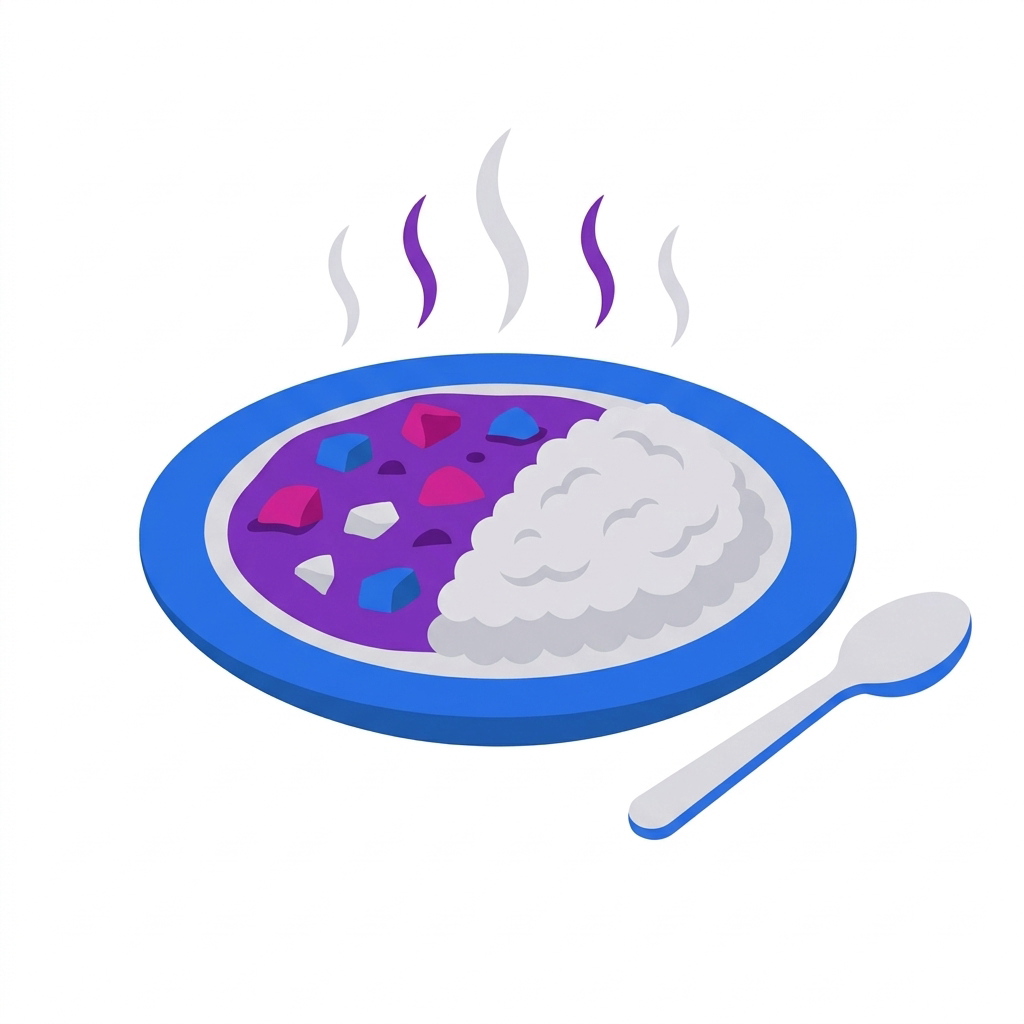
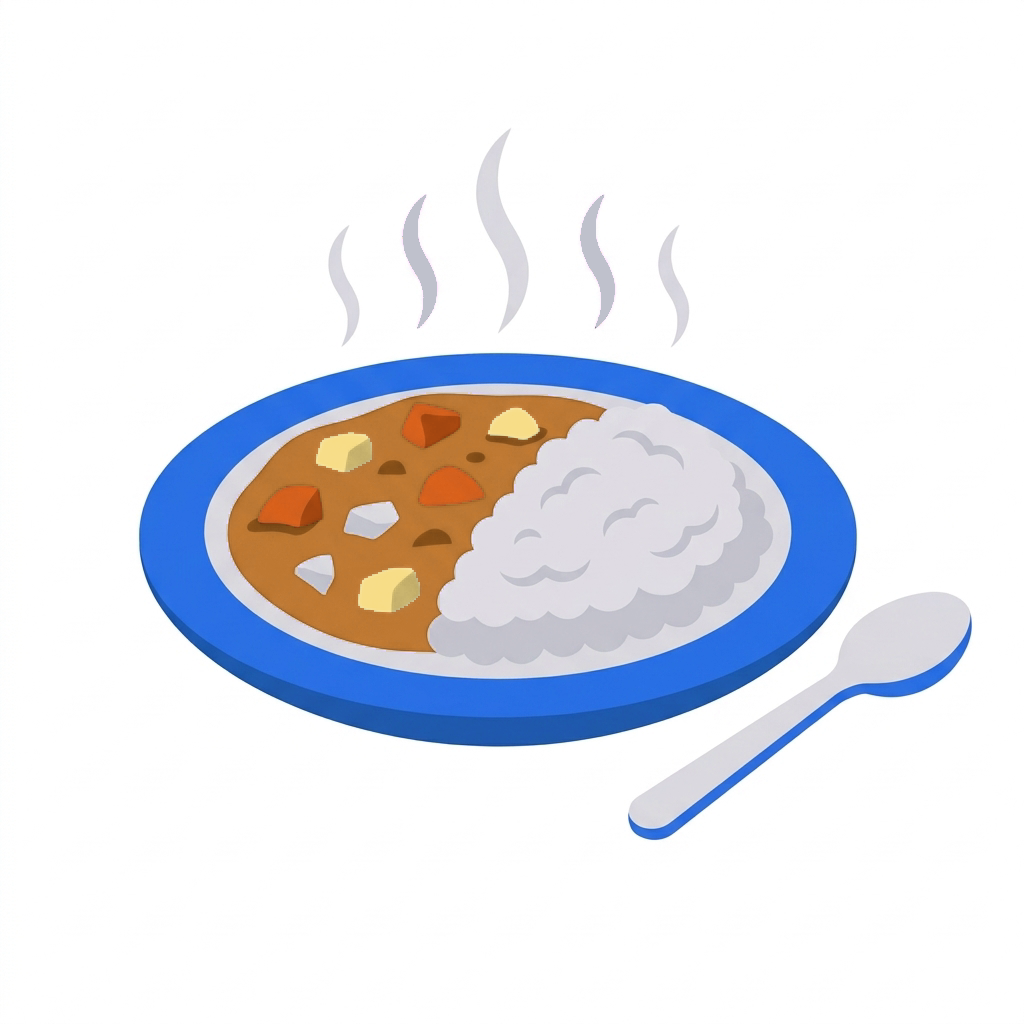
fix(content): 食べ物のイラストを自然な色にする 配色を青・紫に限っていたため、カレーが紫になっていた (オーナーの指摘)。
- 絵柄の決まりに、食べ物と飲み物は自然な色で描く例外を足す
- 1-1-3 関数を呼び出す: カレー (茶色のルー・にんじん・じゃがいも) と買い物の絵 (赤いりんご・焼き色のパン) を差し替える
  (いまある絵の色を塗り替えたもの。指示文も自然な色に直す)

Claude-Session: https://claude.ai/code/session_01QjZbnuCsAJLCVEWEoRV6zi

Changed region(s): [[0.2188, 0.375, 0.5938, 0.6562], [0.375, 0.1875, 0.4375, 0.3125], [0.5625, 0.1875, 0.625, 0.3125]]

diff --git a/packages/content/narration/art-style.md b/packages/content/narration/art-style.md
@@ -1,1 +1,1 @@
-Flat vector illustration for a beginner programming course video. Clean geometric shapes, soft rounded forms, no outlines, generous white space, pure white background (#FFFFFF). Limited palette: blue #2563EB, violet #8330C7, magenta #E62F9A as a small accent, light grey #DDDDE2, near-black #0E0E10 for hair and small details, warm neutral skin tone. The recurring character is a friendly young adult learner with simple facial features, gender-neutral, short dark hair, wearing a plain violet sweater. Web browser windows are always drawn in blue; code editor windows are always drawn in violet with a dark screen. Absolutely no text, no letters, no numbers, no logos, no brand marks, no watermarks. Centered subject, nothing cropped at the edges.
+Flat vector illustration for a beginner programming course video. Clean geometric shapes, soft rounded forms, no outlines, generous white space, pure white background (#FFFFFF). Limited palette: blue #2563EB, violet #8330C7, magenta #E62F9A as a small accent, light grey #DDDDE2, near-black #0E0E10 for hair and small details, warm neutral skin tone. Exception to the limited palette: food and drink are always drawn in their natural, appetizing colours (for example brown curry, red apples, golden bread, green vegetables), never in blue or violet. The recurring character is a friendly young adult learner with simple facial features, gender-neutral, short dark hair, wearing a plain violet sweater. Web browser windows are always drawn in blue; code editor windows are always drawn in violet with a dark screen. Absolutely no text, no letters, no numbers, no logos, no brand marks, no watermarks. Centered subject, nothing cropped at the edges.
